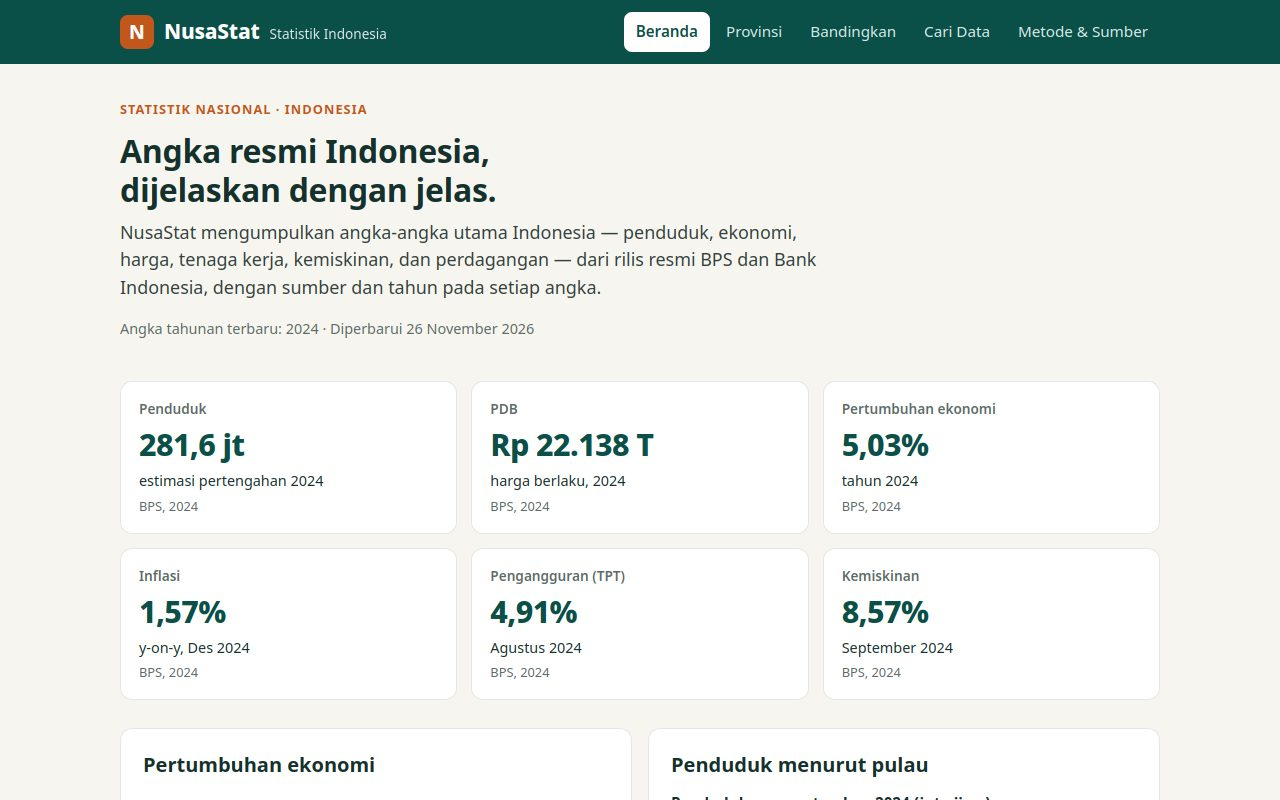
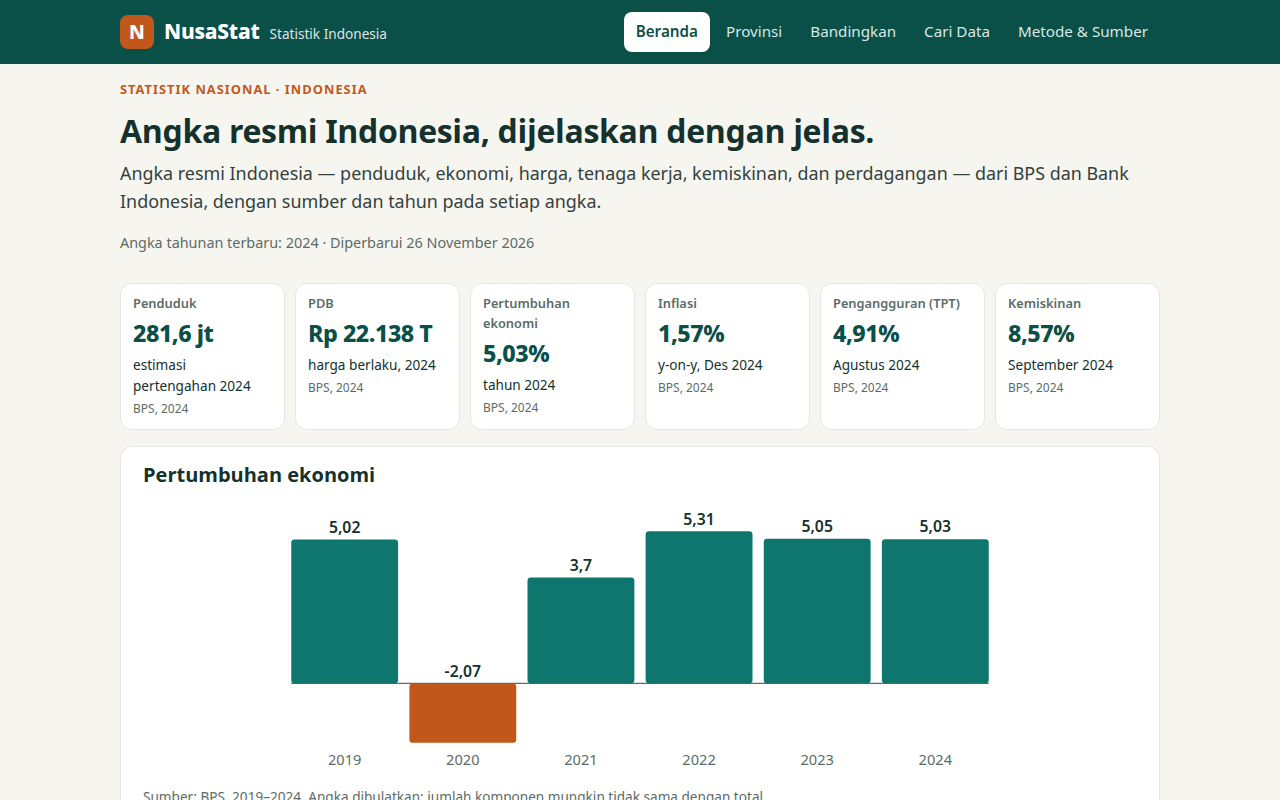
Rebuild: full-width growth chart on cover, two large charts + insight box on economy, top-5 bar chart + share bars on provinces, compare view on phone
- Cover: compact hero, KPIs in one row, growth chart fully visible in first viewport
- Economy topic: growth + GDP-by-sector charts side by side, 'Apa artinya' insight box
- Provinces: top-5 bar chart above table, in-row share bars
- Phone shot now shows compare view (Jawa Barat vs DKI Jakarta) instead of duplicated home
- Chart labels bumped to 13-14px so they stay readable when shrunk
- 'Rilis terbaru' renamed to 'Rilis yang dipakai'

diff --git a/app/views.js b/app/views.js
@@ -47,24 +47,16 @@ export function homeView() {
   return `
   <section class="hero">
     <p class="eyebrow">Statistik Nasional · Indonesia</p>
-    <h1>Angka resmi Indonesia,<br>dijelaskan dengan jelas.</h1>
-    <p class="lede">NusaStat mengumpulkan angka-angka utama Indonesia — penduduk, ekonomi, harga, tenaga kerja, kemiskinan, dan perdagangan — dari rilis resmi BPS dan Bank Indonesia, dengan sumber dan tahun pada setiap angka.</p>
+    <h1>Angka resmi Indonesia, dijelaskan dengan jelas.</h1>
+    <p class="lede">Angka resmi Indonesia — penduduk, ekonomi, harga, tenaga kerja, kemiskinan, dan perdagangan — dari BPS dan Bank Indonesia, dengan sumber dan tahun pada setiap angka.</p>
     <p class="hero-meta">Angka tahunan terbaru: 2024 · Diperbarui ${META.updated}</p>
   </section>
   <section class="kpi-grid" aria-label="Angka utama">${HEADLINE.map(kpi).join("")}</section>
-  <section class="grid-2">
-    <article class="card">
-      <h2>Pertumbuhan ekonomi</h2>
-      ${columnChart(SERIES.pertumbuhan)}
-      ${sourceNote(SERIES.pertumbuhan.source)}
-      <p><a href="#/topik/ekonomi">Lihat topik Ekonomi →</a></p>
-    </article>
-    <article class="card">
-      <h2>Penduduk menurut pulau</h2>
-      ${barChart(ISLANDS.title, ISLANDS.rows, "jt")}
-      ${sourceNote(ISLANDS.source)}
-      <p><a href="#/topik/penduduk">Lihat topik Penduduk →</a></p>
-    </article>
+  <section class="card chart-wide">
+    <h2>Pertumbuhan ekonomi</h2>
+    <div class="chart-center">${columnChart(SERIES.pertumbuhan, 640, 240)}</div>
+    ${sourceNote(SERIES.pertumbuhan.source)}
+    <p><a href="#/topik/ekonomi">Lihat topik Ekonomi →</a></p>
   </section>
   <section>
     <h2>Jelajahi berdasarkan topik</h2>
@@ -72,7 +64,8 @@ export function homeView() {
   </section>
   <section class="grid-2">
     <article class="card">
-      <h2>Rilis terbaru</h2>
+      <h2>Rilis yang dipakai</h2>
+      <p>Rilis BPS/BI yang angkanya dipakai di situs ini.</p>
       <ul class="releases">${releases}</ul>
     </article>
     <article class="card">
@@ -86,12 +79,34 @@ export function homeView() {
   </section>`;
 }
 
+// "Apa artinya": one derived line per topic, each checked against data.js —
+// no new raw figures, only arithmetic or restatements of figures already shown.
+const INSIGHTS = {
+  penduduk: "Lebih dari separuh penduduk tinggal di Jawa — angka apa pun soal Indonesia praktis soal Jawa dulu.",
+  ekonomi: "Ekonomi tumbuh 5,03% sementara harga naik 1,57% — daya beli tumbuh, bukan sekadar angka naik.",
+  harga: "Inflasi 1,57% berada di ujung bawah rentang sasaran Bank Indonesia (1,5%–3,5%).",
+  "tenaga-kerja": "Dari 149,4 juta angkatan kerja, sekitar 59% bekerja informal — mayoritas pekerja tanpa perlindungan formal.",
+  kemiskinan: "Garis kemiskinan Rp 595 ribu/kapita/bulan — bandingkan dengan upah di kotamu untuk membaca angka ini.",
+  perdagangan: "Surplus US$ 31,0 miliar selama lima tahun berturut-turut — ekspor masih ditopang batu bara dan minyak sawit.",
+};
+
 export function topicView(id) {
   const t = TOPICS.find((x) => x.id === id);
   if (!t) return `<section class="card"><h1>Topik tidak ditemukan</h1><p><a href="#/">Kembali ke Beranda</a></p></section>`;
-  let chart = "";
-  if (t.chart === "islands") chart = barChart(ISLANDS.title, ISLANDS.rows, "jt") + sourceNote(ISLANDS.source);
-  else if (SERIES[t.chart]) chart = columnChart(SERIES[t.chart]) + sourceNote(SERIES[t.chart].source);
+  let charts = "";
+  if (id === "ekonomi") {
+    charts = `<section class="topic-charts">
+      <article class="card"><h2>Pertumbuhan ekonomi</h2>${columnChart(SERIES.pertumbuhan, 640, 280)}${sourceNote(SERIES.pertumbuhan.source)}</article>
+      <article class="card">${sectorsChart()}</article>
+    </section>`;
+  } else {
+    let chart = "";
+    if (t.chart === "islands") chart = barChart(ISLANDS.title, ISLANDS.rows, "jt") + sourceNote(ISLANDS.source);
+    else if (SERIES[t.chart]) chart = columnChart(SERIES[t.chart], 640, 280) + sourceNote(SERIES[t.chart].source);
+    charts = `<section class="topic-charts single">
+      <article class="card"><h2>Grafik</h2>${chart}</article>
+    </section>`;
+  }
   const others = TOPICS.filter((x) => x.id !== id).map((x) =>
     `<a href="#/topik/${x.id}">${x.name}</a>`).join(" · ");
   return `
@@ -100,10 +115,9 @@ export function topicView(id) {
     <h1>${t.name}</h1>
     <p class="lede">${t.blurb}</p>
   </section>
-  <section class="grid-2">
-    <article class="card"><h2>Angka-angka utama</h2>${indicatorTable(t.rows)}</article>
-    <article class="card"><h2>Grafik</h2>${chart}<p class="note">${t.note}</p></article>
-  </section>
+  ${charts}
+  <section class="card"><h2>Apa artinya</h2><p class="insight">${t.note} ${INSIGHTS[id] ?? ""}</p></section>
+  <section class="card"><h2>Angka-angka utama</h2>${indicatorTable(t.rows)}</section>
   <section><p class="topic-nav">Topik lain: ${others}</p></section>`;
 }
 
@@ -122,13 +136,15 @@ function sortedProvinces() {
   return list;
 }
 
+const MAX_POP = Math.max(...PROVINCES.map((p) => p.pop));
+
 function provinceRows() {
   return sortedProvinces().map((p) =>
     `<tr>
       <td><a href="#/bandingkan/${encodeURIComponent(p.name)}">${p.name}</a></td>
       <td>${p.island}</td>
       <td class="num">${fmtID(p.pop)}</td>
-      <td class="num">${fmtID(shareOf(p.pop))}%</td>
+      <td class="num">${fmtID(shareOf(p.pop))}%<div class="prov-bar"><div style="width:${(p.pop / MAX_POP * 100).toFixed(1)}%"></div></div></td>
       <td><a class="mini-link" href="#/bandingkan/${encodeURIComponent(p.name)}">Bandingkan →</a></td>
     </tr>`
   ).join("");
@@ -139,11 +155,16 @@ export function regionsView() {
   const islands = ["Semua", ...new Set(PROVINCES.map((p) => p.island))];
   const options = islands.map((i) => `<option${i === islandFilter ? " selected" : ""}>${i}</option>`).join("");
   const arrow = (key) => (sortKey === key ? (sortDir === 1 ? " ▲" : " ▼") : "");
+  const top5 = [...PROVINCES].sort((a, b) => b.pop - a.pop).slice(0, 5).map((p) => [p.name, p.pop]);
   return `
   <section>
     <p class="eyebrow"><a href="#/">Beranda</a> / Provinsi</p>
     <h1>Provinsi</h1>
     <p class="lede">Penduduk 38 provinsi Indonesia, estimasi pertengahan 2024 (BPS, dibulatkan ke 0,1 juta jiwa). Klik nama provinsi untuk membandingkannya dengan provinsi lain.</p>
+  </section>
+  <section class="card">
+    ${barChart("5 provinsi terbanyak penduduknya", top5, "jt")}
+    ${sourceNote("BPS, estimasi pertengahan 2024.")}
   </section>
   <section class="card">
     <div class="toolbar">

diff --git a/app/charts.js b/app/charts.js
@@ -33,15 +33,15 @@ export function lineChart(series, width = 640, height = 260) {
     const v = lo + ((hi2 - lo) * i) / ticks;
     const gy = y(v);
     grid += `<line x1="${padL}" y1="${gy}" x2="${padL + w}" y2="${gy}" stroke="${GRID}" stroke-width="1"/>` +
-      `<text x="${padL - 8}" y="${gy + 4}" text-anchor="end" font-size="11" fill="${MUTED}" font-family="${FONT}">${fmt(Math.round(v * 100) / 100)}</text>`;
+      `<text x="${padL - 8}" y="${gy + 4}" text-anchor="end" font-size="13" fill="${MUTED}" font-family="${FONT}">${fmt(Math.round(v * 100) / 100)}</text>`;
   }
   const path = series.points.map((p, i) => `${i === 0 ? "M" : "L"}${x(i).toFixed(1)},${y(p[1]).toFixed(1)}`).join(" ");
   const dots = series.points.map((p, i) =>
     `<circle cx="${x(i)}" cy="${y(p[1])}" r="4" fill="#fff" stroke="${TEAL}" stroke-width="2.5"/>` +
-    `<text x="${x(i)}" y="${y(p[1]) - 10}" text-anchor="middle" font-size="11" font-weight="600" fill="${INK}" font-family="${FONT}">${fmt(p[1])}</text>`
+    `<text x="${x(i)}" y="${y(p[1]) - 10}" text-anchor="middle" font-size="13" font-weight="600" fill="${INK}" font-family="${FONT}">${fmt(p[1])}</text>`
   ).join("");
   const labels = series.points.map((p, i) =>
-    `<text x="${x(i)}" y="${height - 8}" text-anchor="middle" font-size="11" fill="${MUTED}" font-family="${FONT}">${esc(p[0])}</text>`
+    `<text x="${x(i)}" y="${height - 8}" text-anchor="middle" font-size="13" fill="${MUTED}" font-family="${FONT}">${esc(p[0])}</text>`
   ).join("");
   return `<svg viewBox="0 0 ${width} ${height}" width="100%" role="img" aria-label="${esc(series.title)}">
     ${grid}
@@ -60,8 +60,8 @@ export function barChart(title, rows, unit, width = 640) {
     const y = padT + i * rowH;
     const bw = Math.max(2, (value / max) * 62);
     const color = i === 0 ? AMBER : TEAL;
-    return `<text x="0" y="${y + 15}" font-size="13" fill="${INK}" font-family="${FONT}">${esc(label)}</text>` +
-      `<text x="100%" y="${y + 15}" text-anchor="end" font-size="13" font-weight="600" fill="${INK}" font-family="${FONT}">${fmt(value)}${unit ? " " + esc(unit) : ""}</text>` +
+    return `<text x="0" y="${y + 15}" font-size="14" fill="${INK}" font-family="${FONT}">${esc(label)}</text>` +
+      `<text x="100%" y="${y + 15}" text-anchor="end" font-size="14" font-weight="600" fill="${INK}" font-family="${FONT}">${fmt(value)}${unit ? " " + esc(unit) : ""}</text>` +
       `<rect x="0" y="${y + 20}" width="${bw}%" height="10" rx="5" fill="${color}"/>`;
   }).join("");
   return `<div class="chart-title">${esc(title)}</div>
@@ -70,7 +70,7 @@ export function barChart(title, rows, unit, width = 640) {
 
 // Vertical column chart, for a short series with a shared unit. Negative
 // values draw downward from the zero line in amber, positives upward in teal.
-export function columnChart(series, width = 640, height = 240) {
+export function columnChart(series, width = 640, height = 280) {
   const padL = 10, padR = 10, padT = 26, padB = 26;
   const w = width - padL - padR, h = height - padT - padB;
   const values = series.points.map((p) => p[1]);
@@ -89,8 +89,8 @@ export function columnChart(series, width = 640, height = 240) {
     // Negative bars hang below the zero line; their label sits just above it.
     const labelY = p[1] < 0 ? y0 - 6 : top - 6;
     return `<rect x="${x.toFixed(1)}" y="${top.toFixed(1)}" width="${bw.toFixed(1)}" height="${bh.toFixed(1)}" rx="3" fill="${color}"/>` +
-      `<text x="${(x + bw / 2).toFixed(1)}" y="${labelY.toFixed(1)}" text-anchor="middle" font-size="12" font-weight="600" fill="${INK}" font-family="${FONT}">${fmt(p[1])}</text>` +
-      `<text x="${(x + bw / 2).toFixed(1)}" y="${height - 6}" text-anchor="middle" font-size="11" fill="${MUTED}" font-family="${FONT}">${esc(p[0])}</text>`;
+      `<text x="${(x + bw / 2).toFixed(1)}" y="${labelY.toFixed(1)}" text-anchor="middle" font-size="14" font-weight="600" fill="${INK}" font-family="${FONT}">${fmt(p[1])}</text>` +
+      `<text x="${(x + bw / 2).toFixed(1)}" y="${height - 6}" text-anchor="middle" font-size="13" fill="${MUTED}" font-family="${FONT}">${esc(p[0])}</text>`;
   }).join("");
   const zero = min < 0 ? `<line x1="${padL}" y1="${y0}" x2="${padL + w}" y2="${y0}" stroke="${MUTED}" stroke-width="1"/>` : "";
   return `<svg viewBox="0 0 ${width} ${height}" width="100%" role="img" aria-label="${esc(series.title)}">${zero}${cols}</svg>`;

diff --git a/app/style.css b/app/style.css
@@ -55,22 +55,23 @@ p { margin: 0 0 0.9em; }
 #main-nav a.active { background: #fff; color: var(--teal-dark); font-weight: 600; }
 
 /* Hero */
-.hero { padding: 36px 0 8px; }
+.hero { padding: 16px 0 4px; }
+.hero .lede { max-width: none; }
 .eyebrow { text-transform: uppercase; letter-spacing: 0.08em; font-size: 0.8rem; font-weight: 700; color: var(--amber); margin-bottom: 4px; }
 .lede { font-size: 1.12rem; color: #33413e; max-width: 720px; }
 .hero-meta { font-size: 0.9rem; color: var(--muted); }
 
 /* KPI cards */
-.kpi-grid { display: grid; grid-template-columns: repeat(3, 1fr); gap: 14px; margin: 20px 0 28px; }
+.kpi-grid { display: grid; grid-template-columns: repeat(6, 1fr); gap: 10px; margin: 12px 0 16px; }
 .kpi {
   display: block; background: var(--card); border: 1px solid var(--line);
-  border-radius: 12px; padding: 16px 18px; color: var(--ink);
+  border-radius: 12px; padding: 10px 12px; color: var(--ink);
 }
 .kpi:hover { text-decoration: none; border-color: var(--teal); }
-.kpi-label { display: block; font-size: 0.85rem; font-weight: 600; color: var(--muted); }
-.kpi-value { display: block; font-size: 1.9rem; font-weight: 800; letter-spacing: -0.02em; color: var(--teal-dark); margin: 2px 0; }
-.kpi-detail { display: block; font-size: 0.9rem; }
-.kpi-source { display: block; font-size: 0.8rem; color: var(--muted); margin-top: 4px; }
+.kpi-label { display: block; font-size: 0.8rem; font-weight: 600; color: var(--muted); }
+.kpi-value { display: block; font-size: 1.45rem; font-weight: 800; letter-spacing: -0.02em; color: var(--teal-dark); margin: 2px 0; }
+.kpi-detail { display: block; font-size: 0.85rem; }
+.kpi-source { display: block; font-size: 0.75rem; color: var(--muted); margin-top: 4px; }
 
 /* Layout */
 .grid-2 { display: grid; grid-template-columns: 1fr 1fr; gap: 16px; margin: 0 0 28px; }
@@ -80,6 +81,25 @@ p { margin: 0 0 0.9em; }
 }
 .grid-2 .card { margin-bottom: 0; }
 section { margin-bottom: 8px; }
+
+/* Full-width chart card (home cover) */
+.chart-wide { margin-bottom: 28px; padding: 12px 22px; }
+
+/* Cover chart: centred at 720px so its rendered height fits the first viewport */
+.chart-center { max-width: 720px; margin: 0 auto; }
+
+/* Topic pages: charts grid above the table */
+.topic-charts { display: grid; grid-template-columns: 1fr 1fr; gap: 16px; margin-bottom: 28px; }
+.topic-charts .card { margin-bottom: 0; }
+.topic-charts.single { grid-template-columns: 1fr; }
+
+/* In-cell share bar on the provinces table */
+.prov-bar { background: var(--line); border-radius: 4px; height: 8px; overflow: hidden; margin-top: 5px; min-width: 70px; }
+.prov-bar div { height: 100%; background: var(--teal); border-radius: 4px; }
+
+/* "Apa artinya" insight box — same amber treatment as .note */
+.insight { font-size: 0.92rem; color: #33413e; background: var(--amber-soft); border-left: 3px solid var(--amber); padding: 10px 12px; border-radius: 0 8px 8px 0; }
+.insight strong { color: var(--ink); }
 
 /* Topic cards */
 .topic-grid { display: grid; grid-template-columns: repeat(3, 1fr); gap: 14px; margin-bottom: 28px; }
